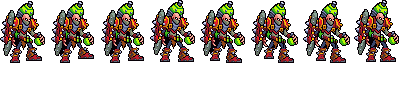
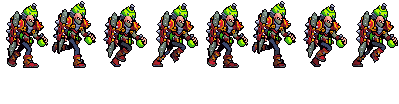
炼金跑步重画：Codex 的前半圈用两遍交替交叉，近侧腿亮、远侧暗一档（league.dll 0.9.119，主包 0.446.0）
用户：「另外炼金的跑步动作是不是让codex重画一下比较好」；看了第一版「没有交叉步明显换腿啊」，第二版「装」。

原来的跑步（8 帧 x 100 毫秒）两只脚钉在原地，只有前脚跟抬一下，药罐、盾、拿药瓶的手几乎不动。Codex 照设计图
（游戏里高清待机第 0 帧）和英雄联盟 singed_run 的骨骼重画了 8 帧，原图放在 assets/source/singed/run_raw/。

- 读回：read_singed_run.py 每 8.15 像素一格（Codex 自己的读回把人缩到 0.85，会变小），lock_singed_face.py 把每帧的脸
  锁成设计图那张，新工具 place_singed_run.py 放成 57 x 106 的高清帧（中心是枢轴，踩地的鞋底在待机的地面上）。
- 交叉步：Codex 的后半圈是同一条腿又领先一次（像马跑）。新工具 cross_singed_legs.py 只用对的前半圈（第 1-4 帧）两遍，
  第二遍换另一条腿在前。近侧腿用设计图腿的颜色，远侧腿暗一档（红色挪两格：最亮两档 C41E30 / A9292C 亮度只差 5，
  其他材质一格），每条腿整圈颜色不变；第 3 帧其实画了两条腿（摆动那条抬脚从撑地那条前面过），按两条腿之间的描边分开。
  只改腿的颜色，形状和透明度一个像素不动。
- 新工具 singed_run_sheet.py 照 run_league.py 的 export 写成 hd_run / run / lo_run，8 帧 x 121 毫秒（英雄联盟一圈 0.967 秒），
  别的动作 303 帧原样；然后 thin_outline.py --hero singed（只去掉 8 个高清帧外侧多出的描边，每帧 35-83 格）。
- league.dll 内嵌他的动画表（hd.rs include_str），版本 0.9.119；主包 0.446.0；README、英雄页开发记录。

检查：从 run_raw 的原图一路重跑（读回、锁脸、放帧、交叉步）和给用户看的 8 帧逐像素一样；近侧和远侧鞋的前后一圈换
两次；gen_hero_docs.py --check 通过。

diff --git a/tools/art/cross_singed_legs.py b/tools/art/cross_singed_legs.py
@@ -1,0 +1,188 @@
+#!/usr/bin/env python3
+"""炼金跑步的交叉步（用户 2026-11-21：「没有交叉步明显换腿啊」）。
+
+    python tools/art/cross_singed_legs.py --frames <放好的 8 帧> --design <design_1x.png> --out <dir>
+
+Codex 重画的 8 帧是同一条腿的两遍"马步"：亮的那条一直在前（落地、踩在身下，下一帧又抬膝往前），暗的那条一直在后，
+从来不交换，而且两条腿只差半档亮度。腿画得好，不重画；照凯特琳跑步的办法（一条腿走一整圈，另一条晚半圈）只重排：
+
+- Codex 的前半圈（第 1-4 帧）是对的：撑地那条腿（X）第 1 帧在前面落地，一路往身后滑（靴底 34 -> 33 -> 20 -> 10），另一条
+  （Y）身后离地 -> 脚跟踢到身后 -> 挡在后面 -> 抬膝在前；后半圈（第 5-8 帧）落地的脚在身前停两帧又一下跳到身后 20 格，不用。
+- 新的 8 帧 = 第 1-4 帧两遍（整张用，上半身、盾、药瓶手都是那一帧自己的），第二遍 X、Y 身份对调：近侧腿（亮）一整圈是
+  前脚落地 -> 踩在身下 -> 斜在身后 -> 身后蹬地 -> 离地 -> 脚跟踢到身后 -> 挡在后面 -> 抬膝在前 -> 落地，远侧腿（暗）晚半圈。
+- 每帧的两条腿（X / Y）：
+  第 1 帧 X = 前面落地那条（右边那堆），Y = 身后刚离地那条（左边那堆）；
+  第 2 帧 X = 踩在身下那条（腰以下全部），Y = 盾左边露出来的脚跟（HEEL_BOX，踢得比腰还高，不在腰以下）；
+  第 3 帧 两条交叉：Y 抬着脚从 X 前面过（膝盖在前、脚往后收，鞋底离地 6 行），X 只露出左下的小腿和脚（撑地），
+  按两条腿之间的描边分开（C3_STANCE），Y 再加上腰以上那段蓝色大腿（C3_THIGH_BOX）；
+  第 4 帧 X = 身后蹬地那条（左边那堆），Y = 抬膝在前那条（右边那堆）。
+- 亮暗：设计图的两条腿一样亮，近侧腿照它，远侧腿比它暗看得出的一档（FAR）。Codex 每帧每条腿画得亮暗不一（第 3、4 帧整体暗一两档），
+  所以不是统一挪几档：每帧、每条腿、每种材质各自在那一串颜色里挪一个整数档，挑平均档位最接近目标的那个（一样近挑挪得少的）。
+  挪完不比设计图的腿更亮：每种材质最亮只到设计图腿上用到的那一档（红色到 C41E30，最亮的 FA1726 设计图的腿上没有）。
+
+腿：腰（鞋底往上 HIP 行）以下、裤子 / 靴子颜色的像素（描边、盾不算），连通块按横向重心分两堆，右边那堆是前腿。
+"""
+import argparse
+import json
+import os
+
+import numpy as np
+from PIL import Image
+from scipy import ndimage
+
+HIP = 17                                  # 腰在鞋底上面多少行（设计图：脚底第 61 行，裤子从第 45 行起）
+# 远侧腿比近侧暗几格（每种材质那一串里）：红色最亮两档 C41E30 / A9292C 亮度（L*）只差 5，挪两格才看得出；
+# 其他材质一格就差 10 左右
+FAR = {0: -1, 1: -2, 2: -1, 3: -1}
+HEEL_BOX = (0, 43, 12, 53)                # Codex 第 2 帧踢到身后的脚跟：x0, y0, x1, y1（不含 x1 / y1），盾的左边
+C3_THIGH_BOX = (24, 43, 37, 51)           # Codex 第 3 帧摆动腿的大腿（腰以上那段蓝色弧线）
+
+
+def c3_stance(y, x):
+    """Codex 第 3 帧里撑地那条看得见的部分：第 62 行以下，和第 59-61 行第 22 列以左（两条腿之间隔着描边）。"""
+    return y >= 62 or (y >= 59 and x <= 22)
+
+
+def hexes(*h):
+    return [tuple(int(x[i:i + 2], 16) for i in (0, 2, 4)) for x in h]
+
+
+# 每种材质的颜色，从暗到亮（设计图的 36 色里）
+FAMILIES = [
+    hexes("343848", "3A476D", "626D94", "8F9BC3"),                                  # 裤子
+    hexes("4D0B19", "631721", "751C24", "8F1F27", "A9292C", "C41E30", "FA1726"),    # 靴子红
+    hexes("331821", "582920", "6C341B", "984A19", "AE5A18", "CF800C", "F6AA09"),    # 靴子棕、橙
+    hexes("B68B18", "FDC117"),                                                      # 扣子金
+]
+NAMES = ["pants", "red", "brown", "gold"]
+WHERE = {c: (f, i) for f, cs in enumerate(FAMILIES) for i, c in enumerate(cs)}
+# 新帧 -> (用 Codex 的第几帧, 这一帧 X 当近侧还是远侧)；Y 是另一侧
+PLAN = [(1, "near"), (2, "near"), (3, "near"), (4, "near"),
+        (1, "far"), (2, "far"), (3, "far"), (4, "far")]
+
+
+def leg_px(a, y, x):
+    return a[y, x, 3] > 0 and tuple(int(v) for v in a[y, x, :3]) in WHERE
+
+
+def legs(a):
+    """(前腿, 后腿) 两个掩码。"""
+    op = a[..., 3] > 0
+    soles = np.nonzero(op.any(1))[0].max()
+    m = np.zeros(op.shape, bool)
+    for y, x in zip(*np.nonzero(op)):
+        if y >= soles - HIP and leg_px(a, y, x):
+            m[y, x] = True
+    lab, n = ndimage.label(m, structure=np.ones((3, 3)))
+    idx = [j for j in range(1, n + 1) if (lab == j).sum() >= 3]
+    cx = np.array([ndimage.center_of_mass(m, lab, j)[1] for j in idx])
+    w = np.array([(lab == j).sum() for j in idx], float)
+    lo, hi = cx.min(), cx.max()
+    right = cx > (lo + hi) / 2
+    for _ in range(20):                    # 一维两分：从最左、最右的块开始，按大小加权
+        if right.all() or (~right).all():
+            break
+        lo, hi = np.average(cx[~right], weights=w[~right]), np.average(cx[right], weights=w[right])
+        right = np.abs(cx - hi) < np.abs(cx - lo)
+    front, back = np.zeros_like(m), np.zeros_like(m)
+    for j, r in zip(idx, right):
+        (front if r else back)[lab == j] = True
+    return front, back
+
+
+def x_and_y(k, a):
+    """Codex 第 k 帧的 (X 撑地那条, Y 摆动那条) 掩码。"""
+    front, back = legs(a)
+    if k == 1:
+        return front, back
+    if k == 4:
+        return back, front
+    box = np.zeros(front.shape, bool)
+    x0, y0, x1, y1 = HEEL_BOX
+    box[y0:y1, x0:x1] = True
+    if k == 2:
+        heel = np.zeros_like(box)
+        for y, x in zip(*np.nonzero(box)):
+            heel[y, x] = leg_px(a, y, x)
+        return (front | back) & ~box, heel
+    legs_ = front | back
+    stance = np.zeros_like(legs_)
+    for y, x in zip(*np.nonzero(legs_)):
+        stance[y, x] = c3_stance(y, x)
+    swing = legs_ & ~stance
+    x0, y0, x1, y1 = C3_THIGH_BOX
+    for y in range(y0, y1):
+        for x in range(x0, x1):
+            if leg_px(a, y, x) and WHERE[tuple(int(v) for v in a[y, x, :3])][0] == 0:
+                swing[y, x] = True
+    return stance, swing
+
+
+def design_levels(design):
+    """设计图两条腿每种材质的 (平均档位, 最亮用到第几档)：近侧腿的目标和上限。"""
+    front, back = legs(design)
+    m = front | back
+    caps = {}
+    for y, x in zip(*np.nonzero(m)):
+        f, i = WHERE[tuple(int(v) for v in design[y, x, :3])]
+        caps[f] = max(caps.get(f, 0), i)
+    return levels(design, m), caps
+
+
+def levels(a, mask):
+    by = {}
+    for y, x in zip(*np.nonzero(mask)):
+        f, i = WHERE[tuple(int(v) for v in a[y, x, :3])]
+        by.setdefault(f, []).append(i)
+    return {f: float(np.mean(i)) for f, i in by.items()}
+
+
+def fit(a, mask, target, caps):
+    """mask 里每种材质各挪一个整数档（最亮到 caps[材质]），平均档位最接近 target[材质]。-> (新图, {材质: 挪了几档})。"""
+    out = a.copy()
+    by = {}
+    for y, x in zip(*np.nonzero(mask)):
+        f, i = WHERE[tuple(int(v) for v in a[y, x, :3])]
+        by.setdefault(f, []).append((y, x, i))
+    moved = {}
+    for f, px in by.items():
+        top = caps.get(f, len(FAMILIES[f]) - 1)
+        ii = np.array([i for _, _, i in px])
+        best = min(range(-4, 5), key=lambda s: (abs(np.clip(ii + s, 0, top).mean() - target[f]), abs(s)))
+        for y, x, i in px:
+            out[y, x, :3] = FAMILIES[f][min(max(i + best, 0), top)]
+        moved[NAMES[f]] = best
+    return out, moved
+
+
+def main():
+    ap = argparse.ArgumentParser()
+    ap.add_argument("--frames", required=True)
+    ap.add_argument("--design", required=True)
+    ap.add_argument("--out", required=True)
+    a = ap.parse_args()
+    os.makedirs(a.out, exist_ok=True)
+    near, caps = design_levels(np.array(Image.open(a.design).convert("RGBA")))
+    target = {"near": near, "far": {f: v + FAR[f] for f, v in near.items()}}
+    print("near-leg target levels:", {NAMES[f]: round(v, 2) for f, v in sorted(near.items())},
+          "brightest shade:", {NAMES[f]: v for f, v in sorted(caps.items())})
+    src = {k: np.array(Image.open(os.path.join(a.frames, f"frame_{k}.png")).convert("RGBA")) for k in {p[0] for p in PLAN}}
+    parts = {k: x_and_y(k, img) for k, img in src.items()}
+    info = []
+    for n, (k, x_role) in enumerate(PLAN, 1):
+        y_role = "far" if x_role == "near" else "near"
+        xm, ym = parts[k]
+        out, x_moved = fit(src[k], xm, target[x_role], caps)
+        y_moved = None
+        if ym is not None:
+            out, y_moved = fit(out, ym, target[y_role], caps)
+        Image.fromarray(out).save(os.path.join(a.out, f"frame_{n}.png"))
+        info.append(dict(frame=n, codex_frame=k, X=dict(role=x_role, px=int(xm.sum()), moved=x_moved),
+                         Y=None if ym is None else dict(role=y_role, px=int(ym.sum()), moved=y_moved)))
+        print(f"new frame {n}: Codex frame {k}; X {x_role} {x_moved}; Y " + ("hidden" if ym is None else f"{y_role} {y_moved}"))
+    with open(os.path.join(a.out, "legs.json"), "w", encoding="utf-8") as f:
+        json.dump(info, f, indent=1)
+
+
+if __name__ == "__main__":
+    main()

diff --git a/tools/art/singed_run_sheet.py b/tools/art/singed_run_sheet.py
@@ -1,0 +1,79 @@
+#!/usr/bin/env python3
+"""炼金跑步（Codex 重画 + 交叉步）写进他的贴图表：hd_run / run / lo_run 三套，8 帧 x 121 毫秒（英雄联盟 singed_run 一圈
+0.967 秒）。用户 2026-11-21 看了「现在 vs 新」的动图：「装」。
+
+    python tools/art/singed_run_sheet.py --frames <cross_singed_legs.py 的输出> --review <dir>   # 只出对照图，不写
+    python tools/art/singed_run_sheet.py --frames <cross_singed_legs.py 的输出>                  # 写原帧条和贴图表
+
+帧：cross_singed_legs.py 的 8 张（57 x 106，中心就是枢轴，和他别的高清帧一样站在待机的地面上）。后面照 run_league.py 的
+export 走一遍：按枢轴裁成一样大（dense_frames）、描边补到他别的帧的粗细（outlined，thin_outline.json 的 keep）、
+1 倍帧（one_frames，ppu_one 的缩法）、lo_ 帧（lo_frames，ppu_hd 的 add_lo）、高清原帧条写进 assets/source/ppu/
+（write_strips，以后 ppu_restyle 从这里起），三套写进贴图表（write_sheet：旧跑步的格子清掉，别的动作原地不动）。
+"""
+import argparse
+import os
+import sys
+
+import numpy as np
+from PIL import Image
+
+HERE = os.path.dirname(os.path.abspath(__file__))
+sys.path.insert(0, HERE)
+import run_league as L  # noqa: E402
+
+HERO = "singed"
+PPU = 1.39                                # hd.rs 里 league_singed 的 PPU
+MS = [121] * 8                            # 英雄联盟 singed_run：0.967 秒一圈，8 帧
+
+
+def make(frames_dir):
+    """-> {"run", "hd_run", "lo_run": 帧, "drawn": 描边前的高清帧, "outline_px": 描边补了几格}。"""
+    frames = [np.array(Image.open(os.path.join(frames_dir, f"frame_{k}.png")).convert("RGBA")) for k in range(1, 9)]
+    H, W = frames[0].shape[:2]
+    if any(f.shape[:2] != (H, W) for f in frames):
+        sys.exit("帧的大小不一样")
+    drawn, size = L.dense_frames(frames, 0, (W / 2, H / 2), PPU)
+    dense = L.outlined(HERO, drawn, "hd")
+    grown = sum(int(((a[..., 3] > 0) != (b[..., 3] > 0)).sum()) for a, b in zip(drawn, dense))
+    ones = L.one_frames(HERO, dense, size, PPU)
+    lo = L.outlined(HERO, L.lo_frames(HERO, ones, dense, MS), "lo")
+    if not L.pinholes(L.idle_frame(HERO)):
+        lo = [L.filled(a) for a in lo]
+        ones = [L.filled(a) for a in ones]
+    return {"run": ones, "hd_run": dense, "lo_run": lo, "drawn": drawn, "outline_px": grown}
+
+
+def review(out, d):
+    """三套帧并排（各自 4 倍 / 2 倍），看缩下来的 1 倍和 lo_ 有没有走样。"""
+    os.makedirs(d, exist_ok=True)
+    for tag, s in (("hd_run", 4), ("run", 6), ("lo_run", 4)):
+        fr = out[tag]
+        h = max(f.shape[0] for f in fr)
+        w = sum(f.shape[1] + 2 for f in fr)
+        img = Image.new("RGBA", (w, h), (90, 110, 80, 255))
+        x = 0
+        for f in fr:
+            img.alpha_composite(Image.fromarray(f), (x, h - f.shape[0]))
+            x += f.shape[1] + 2
+        img.resize((w * s, h * s), Image.NEAREST).save(os.path.join(d, f"{tag}.png"))
+
+
+def main():
+    ap = argparse.ArgumentParser(description=__doc__, formatter_class=argparse.RawDescriptionHelpFormatter)
+    ap.add_argument("--frames", required=True)
+    ap.add_argument("--review", help="只出对照图到这个目录，不写原帧条和贴图表")
+    a = ap.parse_args()
+    out = make(a.frames)
+    for t in L.TAGS:
+        print(f"{t}: {len(out[t])} frames {out[t][0].shape[1]}x{out[t][0].shape[0]}")
+    print(f"outline grown by {out['outline_px']} squares over the 8 hd frames")
+    if a.review:
+        review(out, a.review)
+        return
+    L.write_strips(HERO, out["hd_run"], PPU, orig=out["drawn"])
+    w, h = L.write_sheet(HERO, {t: list(zip(out[t], MS)) for t in L.TAGS})
+    print(f"league_{HERO}#sheet.png {w}x{h}: run / hd_run / lo_run 8 frames of {MS[0]} ms")
+
+
+if __name__ == "__main__":
+    main()

diff --git a/tools/art/place_singed_run.py b/tools/art/place_singed_run.py
@@ -1,0 +1,46 @@
+#!/usr/bin/env python3
+"""炼金跑步：读回、锁好脸的 8 帧（read_singed_run.py -> lock_singed_face.py，71 x 110 的画布）放成游戏里的高清帧：
+57 x 106，中心是枢轴（站位点），踩地那几帧的鞋底落在待机的地面上（中心往下 16 行的上面一行）。
+
+    python tools/art/place_singed_run.py --frames <lock_singed_face.py 的输出> --out <dir>
+
+8 帧一起挪同样的距离，不一帧一帧对地面：Codex 画的腾空（第 5 帧离地 5 行）、身子的起伏都留着。之后
+cross_singed_legs.py 排交叉步，singed_run_sheet.py 写进贴图表。
+"""
+import argparse
+import os
+import sys
+
+import numpy as np
+from PIL import Image
+
+sys.path.insert(0, os.path.dirname(os.path.abspath(__file__)))
+import read_singed_run as R  # noqa: E402
+
+WF, HF = 57, 106                          # 高清帧：中心对站位点
+SOLES = 90                                # 读回画布里踩地那几帧的鞋底行（Codex 把脚画在模板地面线下面约 10 格）
+GROUND_F = HF // 2 + 16                   # 高清帧里地面所在的行（鞋底在它上面一行），和待机一样
+
+
+def main():
+    ap = argparse.ArgumentParser(description=__doc__, formatter_class=argparse.RawDescriptionHelpFormatter)
+    ap.add_argument("--frames", required=True)
+    ap.add_argument("--out", required=True)
+    a = ap.parse_args()
+    os.makedirs(a.out, exist_ok=True)
+    dx = int(round(WF / 2 - R.CX))        # 画布的列 -> 高清帧的列
+    dy = (GROUND_F - 1) - SOLES           # 画布的行 -> 高清帧的行
+    for k in range(1, 9):
+        src = np.array(Image.open(os.path.join(a.frames, f"frame_{k}.png")).convert("RGBA"))
+        out = np.zeros((HF, WF, 4), np.uint8)
+        ys, xs = np.nonzero(src[..., 3] > 0)
+        ny, nx = ys + dy, xs + dx
+        if ny.min() < 0 or nx.min() < 0 or nx.max() >= WF or ny.max() >= HF:
+            raise SystemExit(f"frame {k}: 放不进 {WF} x {HF}（行 {ny.min()}-{ny.max()}，列 {nx.min()}-{nx.max()}）")
+        out[ny, nx] = src[ys, xs]
+        Image.fromarray(out).save(os.path.join(a.out, f"frame_{k}.png"))
+        print(f"frame {k}: rows {ny.min()}-{ny.max()} (ground row {GROUND_F}), cols {nx.min()}-{nx.max()}")
+
+
+if __name__ == "__main__":
+    main()

diff --git a/addons/league_main/src/lib.rs b/addons/league_main/src/lib.rs
@@ -86,7 +86,7 @@ mod stack_table;
 mod warm;
 
 pub const ID: &str = "league";
-const VERSION: &str = "0.9.118";
+const VERSION: &str = "0.9.119";
 
 static LOG_LOCK: Mutex<()> = Mutex::new(());
 static LOG_FILE: Mutex<Option<std::fs::File>> = Mutex::new(None);

diff --git a/docs/heroes/league_singed.md b/docs/heroes/league_singed.md
@@ -92,6 +92,7 @@
 | 图标 | 官方技能图标（过肩摔、强力粘胶、疯狂药剂，另有剧毒踪迹、剧毒冲流），从本地客户端取 |
 | 选人卡片 | 药罐顶到脚底 45 游戏像素，卡片画布只装得下约 40：`league.dll` 的 UI_SIZES 画成 0.80、`banpick_center` −10（`tools/art/bp_card_audit.py`：待机的头顶在画布顶下约 2 像素，脚踩在下沿）。待机按 `tools/art/hero_reels.py` 剪：举起药瓶、举起药剂（这两帧手举得高，卡片上会切掉一点，卡片放的是另一条 bp 动画，不受影响）；选人卡片轮流放过肩摔、强力粘胶、疯狂药剂、普攻 |
 | 动作补帧（2026-11-14） | 用户：「还有有的动画感觉只有一帧 不如oppi的地方都要补 参考联盟的动画」。对照表里他的普攻、过肩摔各只有 3 帧，强力粘胶、疯狂药剂各 2 帧，阵亡 3 帧但只有 2 个不同的姿势。没有新画，也没交给 Codex：[`tools/art/inbetween.py`](../../tools/art/inbetween.py) 用他已有的关键姿势做中间帧——盾板连同握着它的近手绕肩膀转一个角度（放大 8 倍、转过去、再缩回原来的格子，只用这一块自己的颜色，接口藏在护肩后面）；拿药瓶的远手也绕肩膀转；过肩摔伸手抓人时那只手臂顺着自己整格缩进肩膀后面；阵亡时脱手的药瓶自己翻着飞（格子上整的四分之一转）。头、背上的药罐和这几块以外的身体逐格不变（[`tools/art/rig_singed.py`](../../tools/art/rig_singed.py) 每一帧都核对）。下面写的是「几帧，其中几个不同的姿势」：同一张图整个挪几格不算新姿势。**普攻** 3 帧 → 7 帧，其中 6 个不同的姿势：盾板举起来（还差 25 度）、举到肩后；身体已经砸下去而盾板还平举着（还差 65 度）；砸中（183 毫秒，往前 2 格）、盾板弹起 10 度、落定（和「砸中」是同一张）；回待机。**过肩摔** 3 帧 → 6 帧，其中 6 个不同的姿势：手伸出去（短 8 格）、抓住；抓到人（167 毫秒）远手往上抬（还差 45 度）、举过肩；甩出去（334 毫秒）时手臂还举着（还差 40 度）、甩到身后。**强力粘胶** 2 帧 → 7 帧，其中 6 个不同的姿势：药瓶从身前往上举（还差 70 度、30 度）、举过头顶；出手（200 毫秒）时手臂还高着（还差 35 度）、扔出、手臂往下带 12 度、回到扔出（同一张）。**疯狂药剂** 2 帧 → 6 帧，其中 6 个不同的姿势：药剂往嘴边送（还差 50 度、20 度）、喝；发狂（333 毫秒）时手臂从上往下张开（还差 45 度、18 度）、张开。**阵亡** 3 帧（2 个姿势）→ 6 帧，其中 5 个不同的姿势：受击、往后退三步（甩出去的手臂再往后 12、25、35 度，脱手的药瓶翻着飞远）；倒下（400 毫秒，同一张离地 3 格）、坐定。每个动作总时长不变，括号里的起点都是原来的毫秒数，没有短于 50 毫秒的帧，技能数据没改；走路（本来就是 8 帧）、待机、受击逐帧没变。转过的盾板和手比原图糊一点，每帧只放 55 – 118 毫秒；每帧 3 倍看过，转过的 5 倍看过。待机里剪的举药瓶、喝药各换成两帧（`hero_reels.json`）。图集 2016×470 → 2044×753，选人格子用的那张 0.6 → 1.35 MiB。游戏里还没看过 |
+| 跑步（2026-11-21） | 用户：「另外炼金的跑步动作是不是让codex重画一下比较好」。原来的跑步两只脚钉在原地、只有前脚跟抬一下。Codex 照设计图和英雄联盟 `singed_run` 的骨骼重画 8 帧（[`tools/art/pack_singed_run.py`](../../tools/art/pack_singed_run.py)、[提示词](../../assets/source/singed/RUN_PROMPT.md)，原图在 [`assets/source/singed/run_raw/`](../../assets/source/singed/run_raw)），[`read_singed_run.py`](../../tools/art/read_singed_run.py) 每 8.15 像素读回一格（不缩放，Codex 自己的读回缩到了 0.85）、[`lock_singed_face.py`](../../tools/art/lock_singed_face.py) 把脸锁成设计图那张、[`place_singed_run.py`](../../tools/art/place_singed_run.py) 放到待机的地面上。第一版用户：「没有交叉步明显换腿啊」（Codex 的后半圈是同一条腿又领先一次）：[`cross_singed_legs.py`](../../tools/art/cross_singed_legs.py) 只用对的前半圈（第 1–4 帧）两遍，第二遍换另一条腿领先；近侧腿用设计图的颜色、远侧腿暗一档（红色挪两格：最亮两档的亮度只差 5），第 3 帧是两条腿交叉的那一刻，只改腿的颜色。[`singed_run_sheet.py`](../../tools/art/singed_run_sheet.py) 写成 hd_run / run / lo_run，8 帧 × 121 毫秒（英雄联盟一圈 0.967 秒）。 |
 
 重新生成（素材来自本机的英雄联盟客户端，音频不进仓库）：
 

diff --git a/README.md b/README.md
@@ -38,6 +38,13 @@
 
 ## 最近的改动
 
+2026-11-21（联盟英雄，炼金跑步重画）：
+
+- **炼金的跑步重画，两条腿交替交叉**（用户：「另外炼金的跑步动作是不是让codex重画一下比较好」，看了第一版「没有交叉步明显换腿啊」，第二版「装」）：原来两只脚钉在原地、只有前脚跟抬一下，像原地跺脚往前平移。Codex 照设计图和英雄联盟 `singed_run` 的骨骼重画 8 帧，读回不缩放、脸锁成设计图那张。
+  - Codex 的后半圈是同一条腿又领先一次，新工具 [`tools/art/cross_singed_legs.py`](tools/art/cross_singed_legs.py) 只用对的前半圈：第 1–4 帧用两遍，第二遍换另一条腿在前；近侧腿用设计图的颜色、远侧腿暗一档，第 3 帧是两条腿交叉的那一刻。只改腿的颜色，形状一个像素不动。
+  - [`tools/art/singed_run_sheet.py`](tools/art/singed_run_sheet.py) 写成 hd_run / run / lo_run，8 帧 × 121 毫秒（英雄联盟一圈 0.967 秒）。
+  - `league.dll` 0.9.119（内嵌他的动画表）、主包 0.446.0。
+
 2026-11-21（联盟英雄，蛮王局内放大到 115%）：
 
 - **蛮王在局内放大到 1.15 倍**（用户：「蛮王新模型在局内感觉有点小了 还有刀是放大后的吗 你查一查」，看了对比图后「放大到 1.15」）：GPT 重画的腥红之月造型站得直、身子瘦，脚到头顶 38 游戏像素（连发髻）和旧模型差不多，可占的面积只有旧模型的七成（639 对 914 平方游戏像素），在盖伦、德莱厄斯、奥拉夫、亚索、贾克斯、赵信里最小。`league.dll` 的 `SIZES` 加一行 1.15（44 高、845）。
